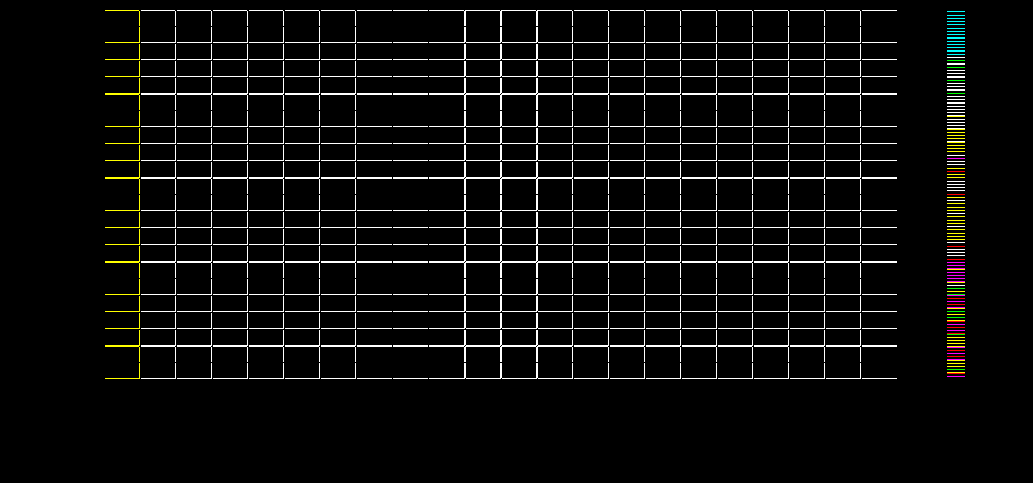
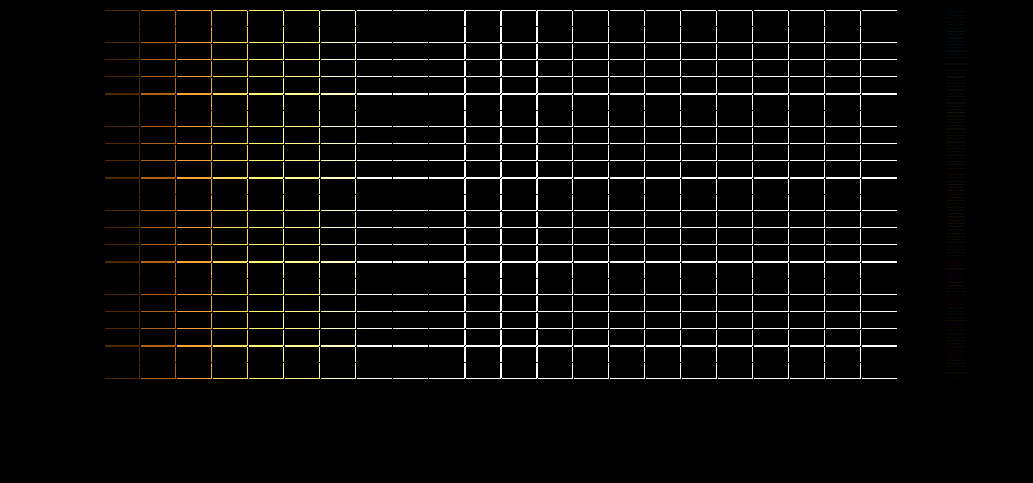
Fix benchmark integration script (#1504)
The previous model used a submodule that was never updated and thus the
stuff copied from oss-fuzz repo was very old and generally not working.
Change this to use the latest oss-fuzz clone.

diff --git a/benchmarks/oss_fuzz_benchmark_integration.py b/benchmarks/oss_fuzz_benchmark_integration.py
@@ -15,14 +15,16 @@
 will create benchmark.yaml as well as copy the files from OSS-Fuzz to build the
 benchmark."""
 import argparse
+import bisect
 import datetime
 from distutils import spawn
 from distutils import dir_util
+import json
 import os
 import sys
 import subprocess
-import json
-import bisect
+import tempfile
+
 
 from common import utils
 from common import benchmark_utils
@@ -30,8 +32,7 @@ from common import logs
 from common import new_process
 from common import yaml_utils
 
-OSS_FUZZ_DIR = os.path.join(utils.ROOT_DIR, 'third_party', 'oss-fuzz')
-OSS_FUZZ_REPO_PATH = os.path.join(OSS_FUZZ_DIR, 'infra')
+OSS_FUZZ_REPO_URL = 'https://github.com/google/oss-fuzz'
 OSS_FUZZ_IMAGE_UPGRADE_DATE = datetime.datetime(
     year=2021, month=8, day=25, tzinfo=datetime.timezone.utc)
 
@@ -77,14 +78,10 @@ class BaseBuilderDockerRepo:
 def copy_oss_fuzz_files(project, commit_date, benchmark_dir):
     """Checks out the right files from OSS-Fuzz to build the benchmark based on
     |project| and |commit_date|. Then copies them to |benchmark_dir|."""
-    if not os.path.exists(os.path.join(OSS_FUZZ_DIR, '.git')):
-        logs.error(
-            '%s is not a git repo. Try running: git submodule update --init',
-            OSS_FUZZ_DIR)
-        raise RuntimeError('%s is not a git repo.' % OSS_FUZZ_DIR)
-    oss_fuzz_repo_manager = GitRepoManager(OSS_FUZZ_DIR)
-    project_dir = os.path.join(OSS_FUZZ_DIR, 'projects', project)
-    try:
+    with tempfile.TemporaryDirectory() as oss_fuzz_dir:
+        oss_fuzz_repo_manager = GitRepoManager(oss_fuzz_dir)
+        oss_fuzz_repo_manager.git(['clone', OSS_FUZZ_REPO_URL, oss_fuzz_dir])
+        project_dir = os.path.join(oss_fuzz_dir, 'projects', project)
         # Find an OSS-Fuzz commit that can be used to build the benchmark.
         _, oss_fuzz_commit, _ = oss_fuzz_repo_manager.git([
             'log', '--before=' + commit_date.isoformat(), '-n1', '--format=%H',
@@ -98,8 +95,6 @@ def copy_oss_fuzz_files(project, commit_date, benchmark_dir):
         dir_util.copy_tree(project_dir, benchmark_dir)
         os.remove(os.path.join(benchmark_dir, 'project.yaml'))
         return True
-    finally:
-        oss_fuzz_repo_manager.git(['reset', '--hard'])
 
 
 def get_benchmark_name(project, fuzz_target, benchmark_name=None):

diff --git a/experiment/run_experiment.py b/experiment/run_experiment.py
@@ -41,8 +41,6 @@ from common import yaml_utils
 
 BENCHMARKS_DIR = os.path.join(utils.ROOT_DIR, 'benchmarks')
 FUZZERS_DIR = os.path.join(utils.ROOT_DIR, 'fuzzers')
-OSS_FUZZ_PROJECTS_DIR = os.path.join(utils.ROOT_DIR, 'third_party', 'oss-fuzz',
-                                     'projects')
 RESOURCES_DIR = os.path.join(utils.ROOT_DIR, 'experiment', 'resources')
 FUZZER_NAME_REGEX = re.compile(r'^[a-z][a-z0-9_]+$')
 EXPERIMENT_CONFIG_REGEX = re.compile(r'^[a-z0-9-]{0,30}$')
@@ -56,7 +54,6 @@ FILTER_SOURCE_REGEX = re.compile(r'('
                                  r'\#*\#$|'
                                  r'\.pytest_cache/|'
                                  r'.*/test_data/|'
-                                 r'^third_party/oss-fuzz/build/|'
                                  r'^docker/generated.mk$|'
                                  r'^docs/)')
 _OSS_FUZZ_CORPUS_BACKUP_URL_FORMAT = (

diff --git a/docs/getting-started/prerequisites.md b/docs/getting-started/prerequisites.md
@@ -23,7 +23,6 @@ Clone the FuzzBench repository to your machine by running the following command:
 ```bash
 git clone https://github.com/google/fuzzbench
 cd fuzzbench
-git submodule update --init
 ```
 
 ## Installing prerequisites
